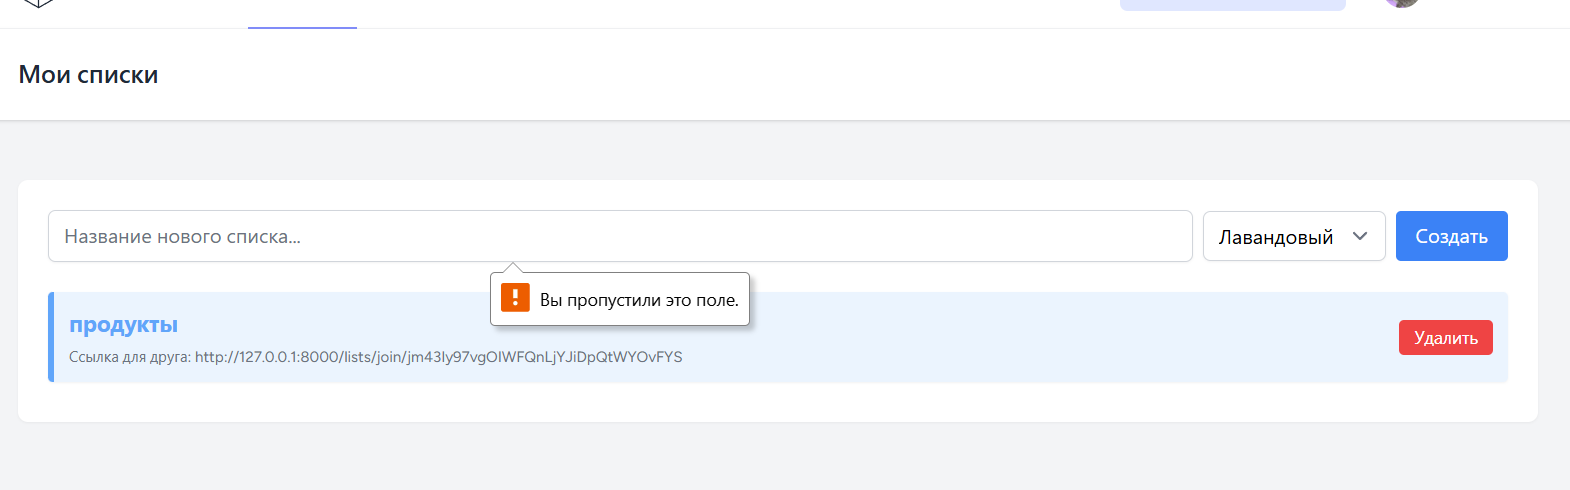
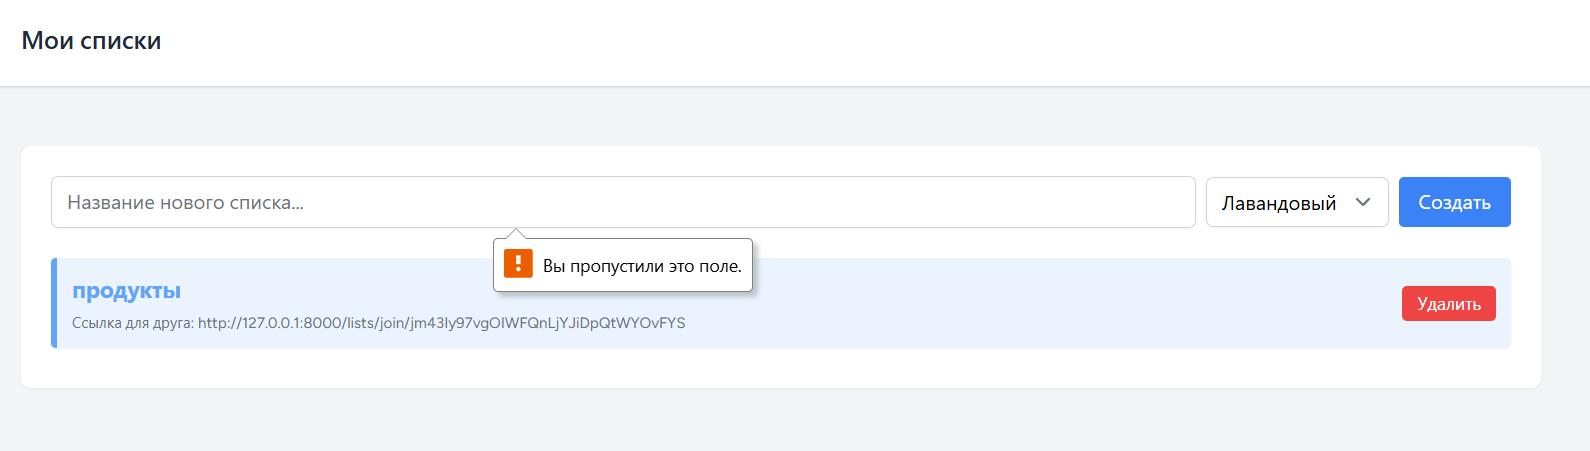
Милана: добавила input-check.md, скриншоты валидации и безопасную загрузку аватарок

diff --git a/docs/input-check.md b/docs/input-check.md
@@ -56,4 +56,4 @@
 3.  **Для файлов используйте правило `file` + `mimes`**, храните их в `storage` (вне `public`), а имена генерируйте автоматически (через `store()`).
 
 **Скриншоты отказов:**
-![![alt text](image-2.png)(error-empty-title.png)
+![Ошибка пустого поля]![alt text](image-2.png)(error-empty-title.png)
